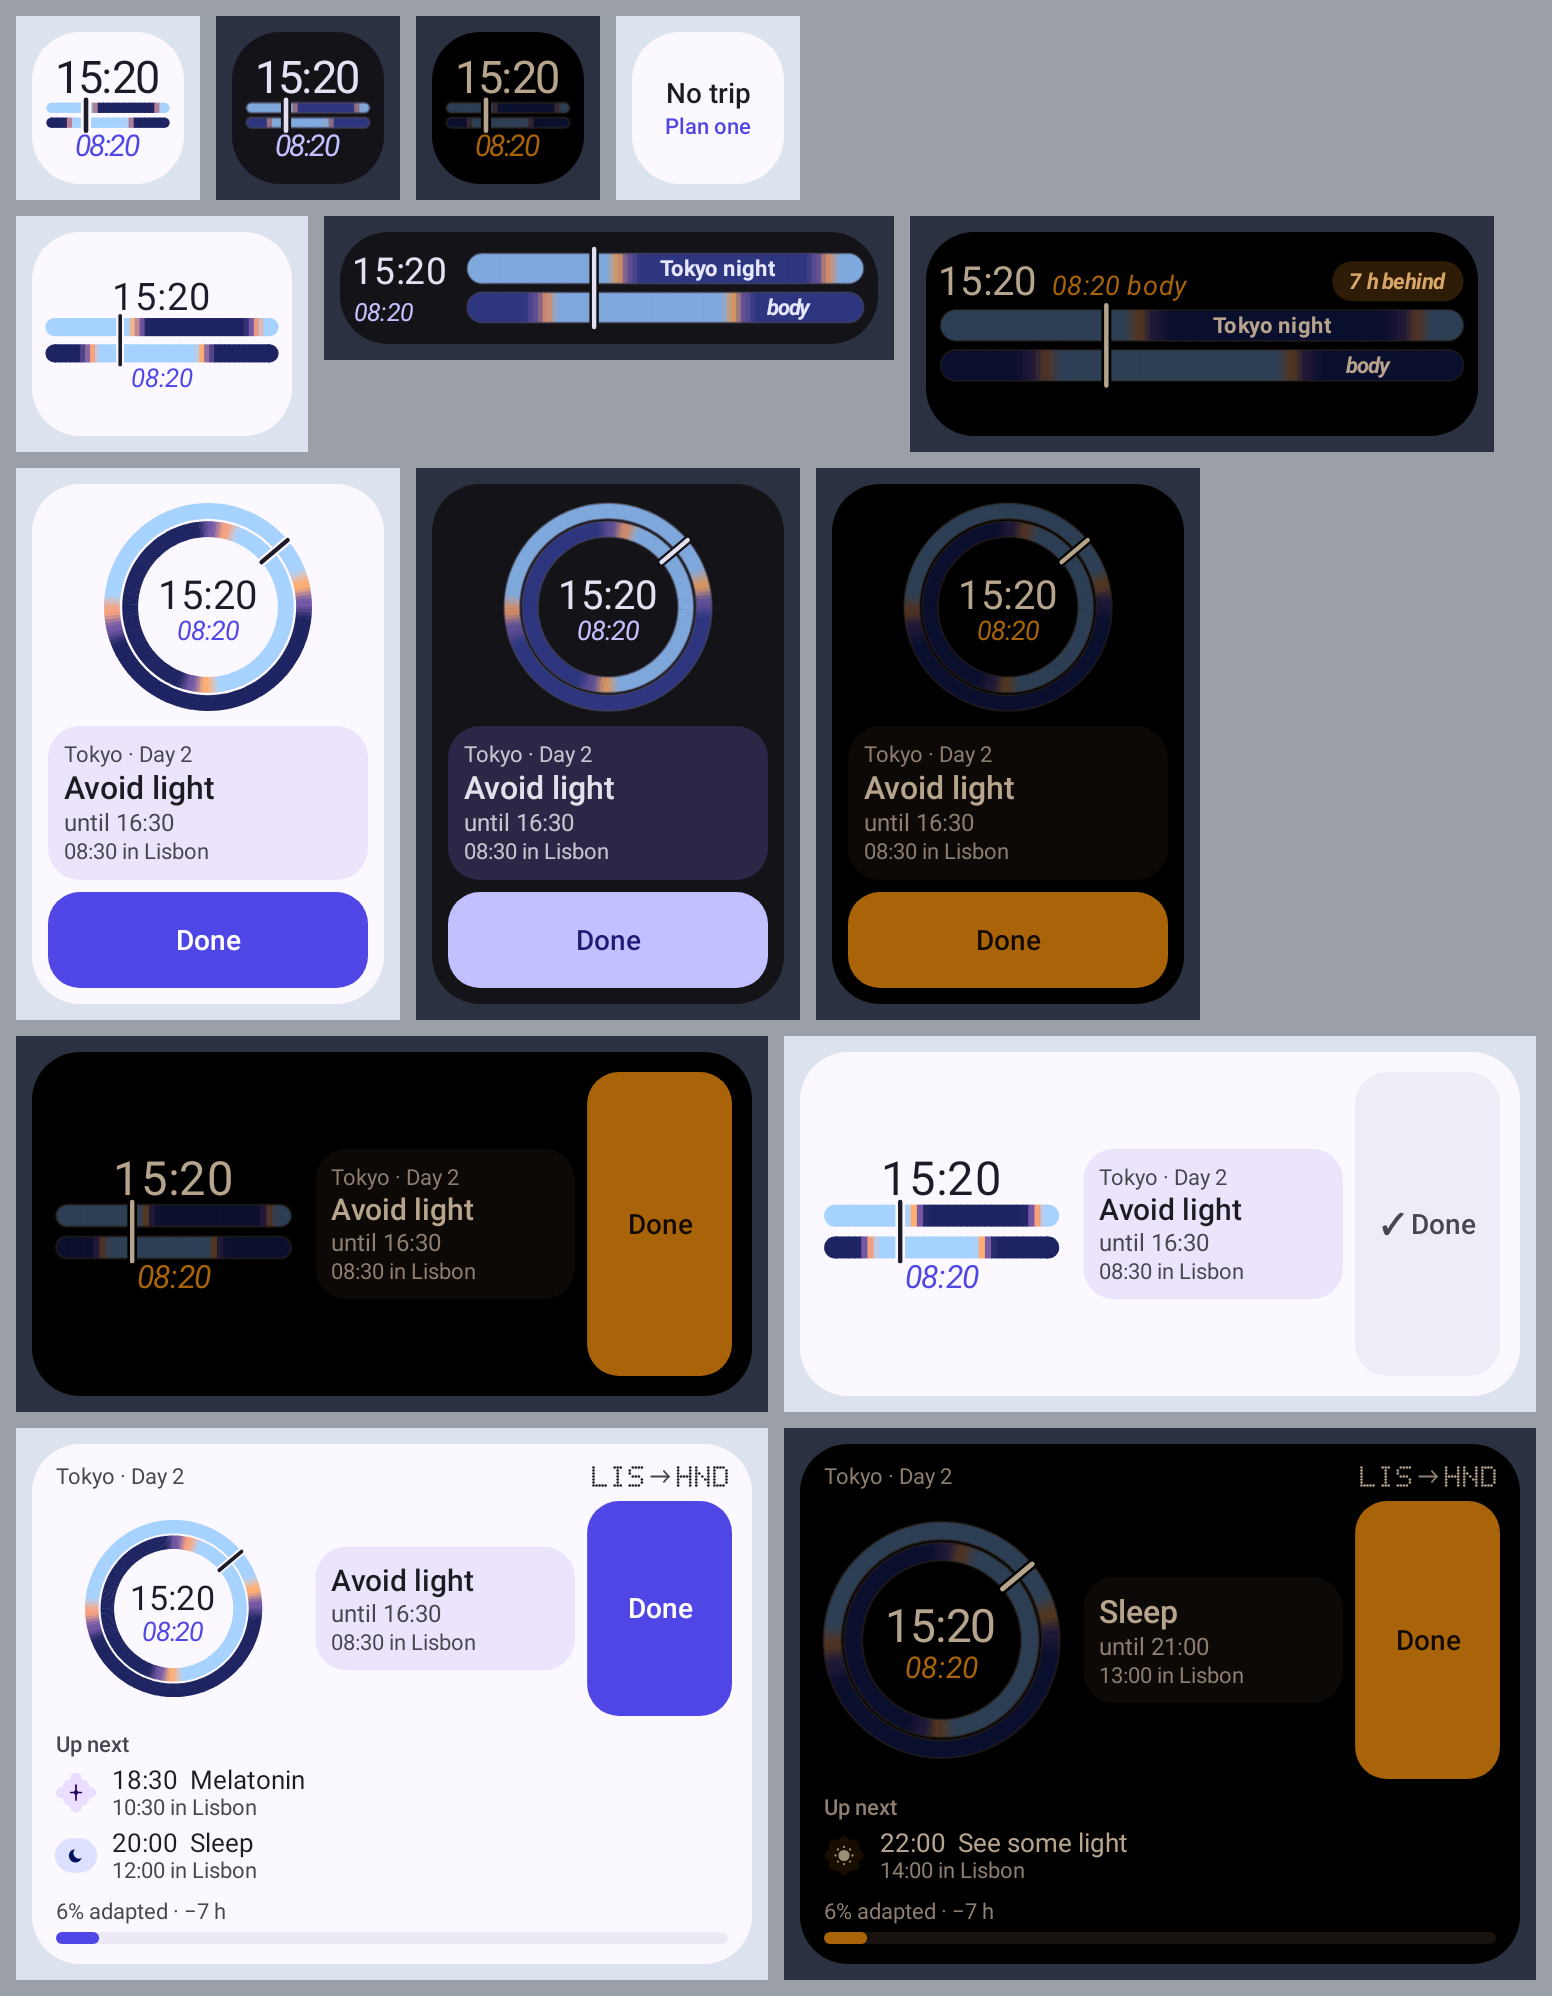
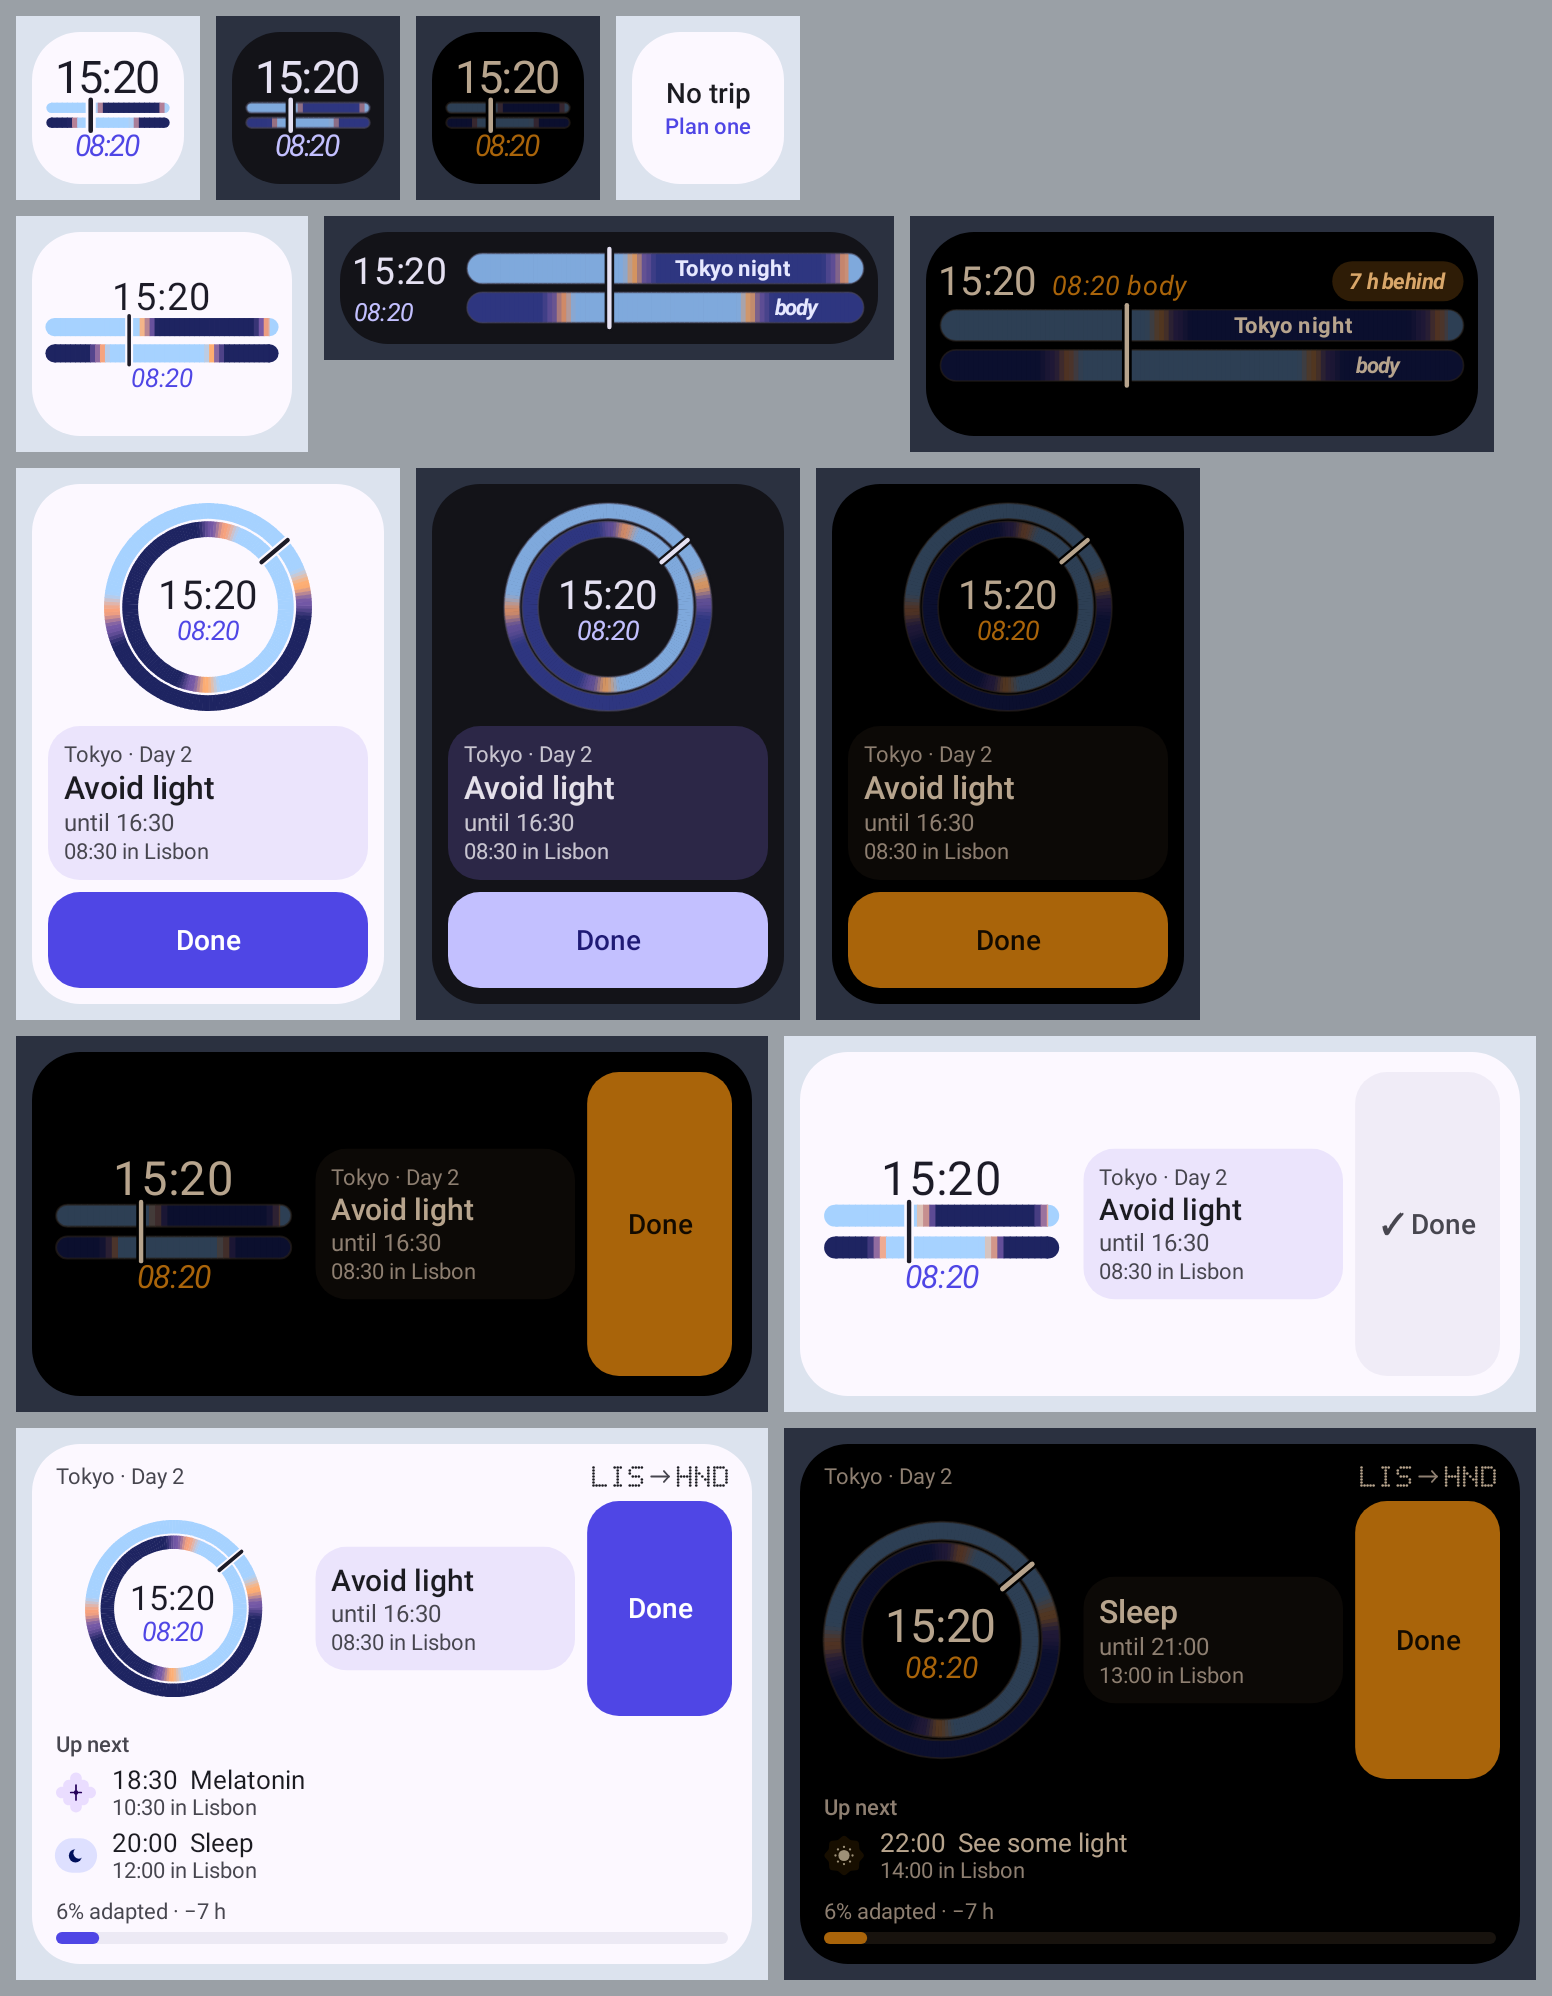
Strips: lead by the dial's 8 h, so their future ends at the dial state's +16 h edge

diff --git a/core/designsystem/src/test/kotlin/dev/sebastiano/clockblocker/opus/core/designsystem/dial/spec/TwoStripsSpecTest.kt b/core/designsystem/src/test/kotlin/dev/sebastiano/clockblocker/opus/core/designsystem/dial/spec/TwoStripsSpecTest.kt
@@ -88,6 +88,18 @@ class TwoStripsSpecTest {
     }
 
     @Test
+    fun `the strips show no more future than the dial state holds`() = runTest {
+        // The dial state keeps advice up to its past window short of a day ahead; the strips must not show beyond it.
+        val future = DialGeometry.MinutesPerDay - DialState.PastWindowMinutes
+        checkAll(Arb.int(0, 1439)) { now ->
+            val shown = (TwoStrips.windowStart(now.toFloat()) + DialGeometry.MinutesPerDay - now).mod(DialGeometry.MinutesPerDay)
+                .let { if (it == 0f) DialGeometry.MinutesPerDay else it }
+            (shown <= future) shouldBe true
+            (shown > future - 60f) shouldBe true
+        }
+    }
+
+    @Test
     fun `the level comes from the box`() {
         DetailLevel.forStrip(117f, 51f) shouldBe DetailLevel.Glance
         DetailLevel.forStrip(56f, 50f) shouldBe DetailLevel.Glance
@@ -99,14 +111,14 @@ class TwoStripsSpecTest {
     }
 
     @Test
-    fun `now sits about a third of the way along a 24 h window that starts on the hour`() {
+    fun `now sits the dial's 8 h in, back to the hour, along a 24 h window that starts on the hour`() {
         val s = spec()
         val axis = s.axis.shouldNotBeNull()
         axis.spanMinutes shouldBe DialGeometry.MinutesPerDay
         (axis.startMinute % 60f) shouldBe 0f
         val along = (axis.x(tokyo.localMinute) - axis.left) / (axis.right - axis.left)
-        along shouldBeGreaterThan 0.26f
-        along shouldBeLessThan 0.31f
+        along shouldBeGreaterThan 480f / 1440f
+        along shouldBeLessThan 540f / 1440f + 0.001f
         s.nowMinute shouldBe tokyo.localMinute
     }
 
@@ -168,10 +180,10 @@ class TwoStripsSpecTest {
 
     @Test
     fun `a block the window's seam cuts draws both pieces, its glyph on the one under the now line`() {
-        // 07:30 under an overnight sleep (23:30–08:00): the window starts at midnight, so the block shows at both ends.
+        // 08:30 under an overnight sleep (23:30–09:00): the window starts at midnight, so the block shows at both ends.
         val night = tokyo.copy(
-            localMinute = 7 * 60f + 30f,
-            arcs = persistentListOf(DialArc("sleep", AdviceType.Sleep, 23 * 60f + 30f, 510f)),
+            localMinute = 8 * 60f + 30f,
+            arcs = persistentListOf(DialArc("sleep", AdviceType.Sleep, 23 * 60f + 30f, 570f)),
         )
         val s = spec(night, w = 250f, h = 84f)
         val axis = s.axis.shouldNotBeNull()

diff --git a/core/designsystem/src/main/kotlin/dev/sebastiano/clockblocker/opus/core/designsystem/dial/spec/TwoStrips.kt b/core/designsystem/src/main/kotlin/dev/sebastiano/clockblocker/opus/core/designsystem/dial/spec/TwoStrips.kt
@@ -16,16 +16,14 @@ import kotlin.math.min
  * the jet lag, [BodyRingMode]). A now line crosses both, so one glance shows "afternoon here, morning for you", and
  * the bars line up once you've adapted. No curved text.
  *
- * The window is a fixed 24 h with now [LeadFraction] of the way in; live hosts slide the now line along the
+ * The window is a fixed 24 h with now the dial's past ([DialState.PastWindowMinutes], on the hour) in, so it ends where
+ * the dial state's advice does; live hosts slide the now line along the
  * [TimeAxis] until the next capture. Levels, by the box ([DetailLevel.forStrip]):
  * - [DetailLevel.Glance]: the bars and the now line between the two times (a 1×1 widget, a narrow 2×1).
  * - [DetailLevel.Simple]: the times beside or above the bars, the bars' night labels, the advice in focus.
  * - [DetailLevel.Full]: adds the advice in words, hour rows with the times on the now line, and the jet lag bracket.
  */
 object TwoStrips {
-    /** Where now sits along the window when captured. */
-    const val LeadFraction = 0.3f
-
     /**
      * Lays the strips out in a [widthDp] × [heightDp] box.
      *
@@ -65,9 +63,12 @@ object TwoStrips {
     fun defaultPlaceOptions(state: DialState): List<String> =
         listOfNotNull(state.placeName?.takeIf { it.isNotBlank() }, ZoneLabels.city(state.displayZoneId)).distinct()
 
-    /** The first local minute of the window for now at [nowMinute]: [LeadFraction] of a day earlier, on the hour. */
+    /**
+     * The first local minute of the window for now at [nowMinute]: the dial's past earlier, back to the hour. Rounding
+     * back keeps the window's end at most the dial state's 16 h ahead, so no block it hasn't got can be due on screen.
+     */
     fun windowStart(nowMinute: Float): Float =
-        (floor((nowMinute - LeadFraction * DialGeometry.MinutesPerDay) / 60f) * 60f).mod(DialGeometry.MinutesPerDay)
+        (floor((nowMinute - DialState.PastWindowMinutes) / 60f) * 60f).mod(DialGeometry.MinutesPerDay)
 
     private class Builder(
         val state: DialState,

diff --git a/docs/design.md b/docs/design.md
@@ -264,7 +264,8 @@ once you're adapted the two rings are identical.
   hold them, and readouts lose "in sync", then AM/PM, but never the body time. `liveReadouts` lays a
   12-hour time out for its widest reading, for hosts that rewrite it between captures. `remote_dial_vs_app.png` in the widget goldens shows the two
   renderers side by side.
-- **Two strips** (`TwoStrips.spec()`): the same two skies as two horizontal bars over a window round now, local on
+- **Two strips** (`TwoStrips.spec()`): the same two skies as two horizontal bars over a 24 h window round now (8 h back
+  to the hour, like the dial, so it never shows more than the dial's 16 h ahead), local on
   top and body below, with a now line across both. Widgets use them where a round dial gets too small to read: the
   1×1, the 2×1 and 4×1 rows and the 2×2 landscape card. The app keeps Two skies as its hero. Levels go by the box:
   under 150 dp wide is Glance (local time, the bars, and body time where it fits), wide boxes are Simple (bar labels,
